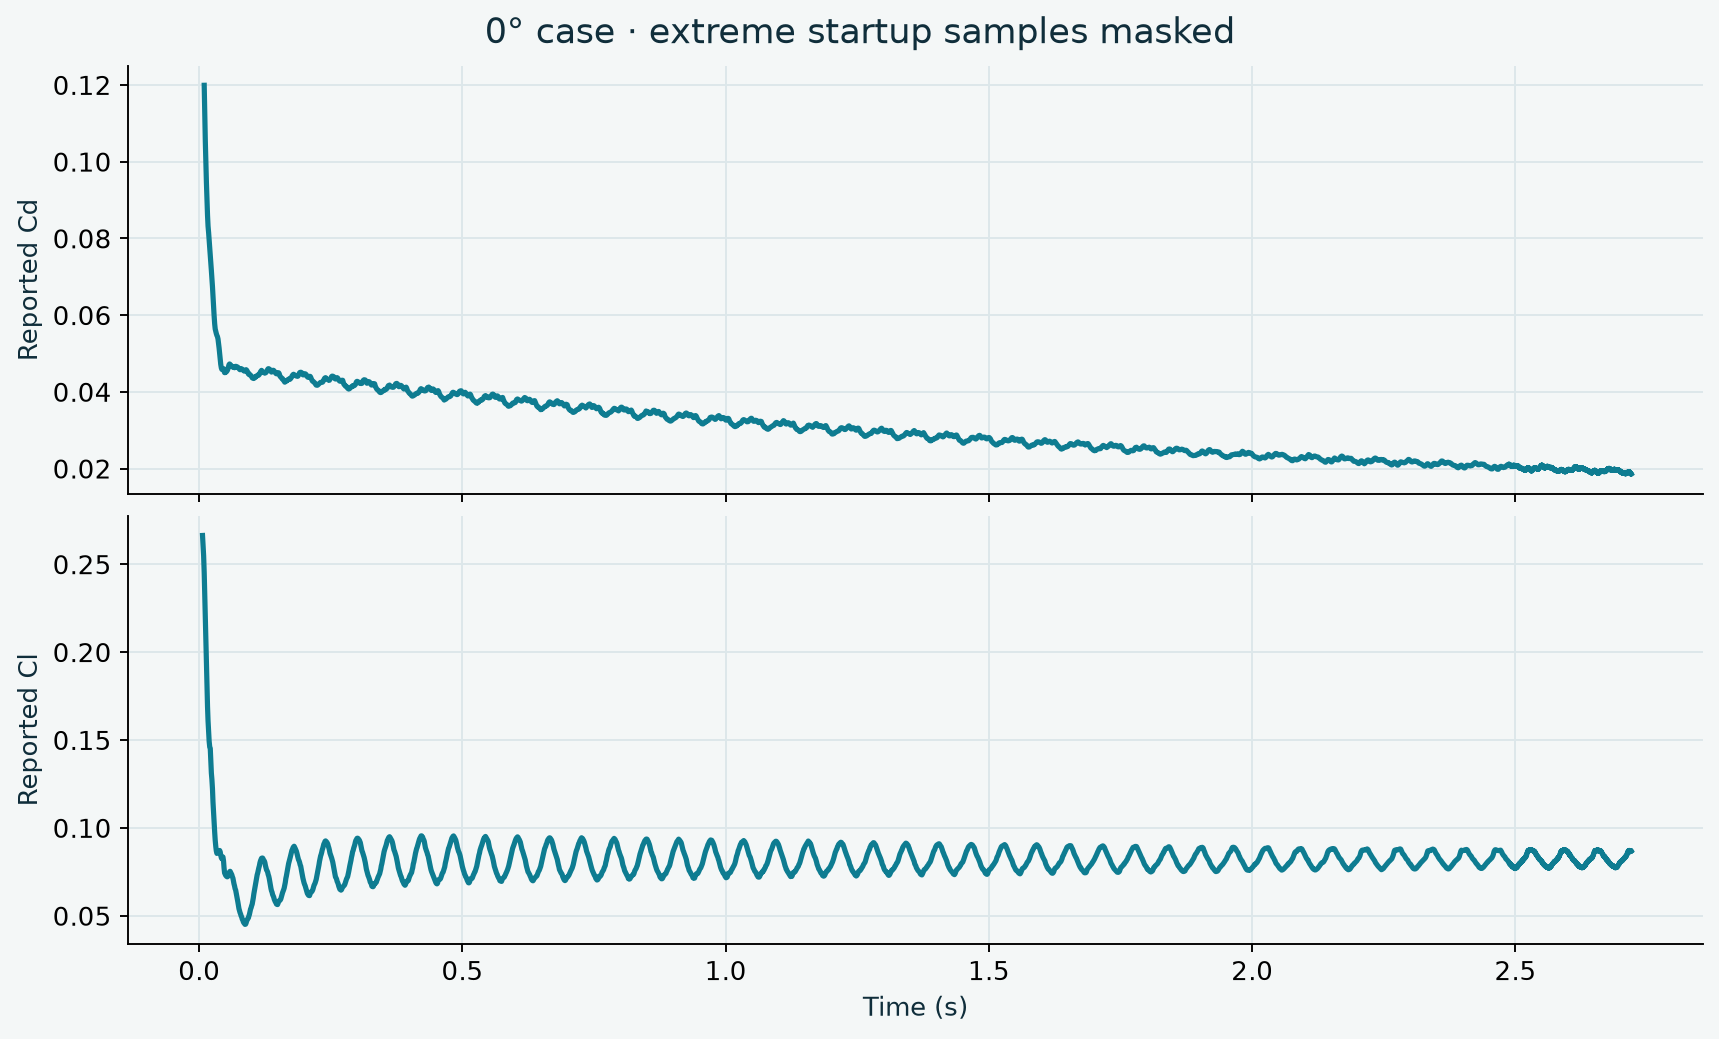
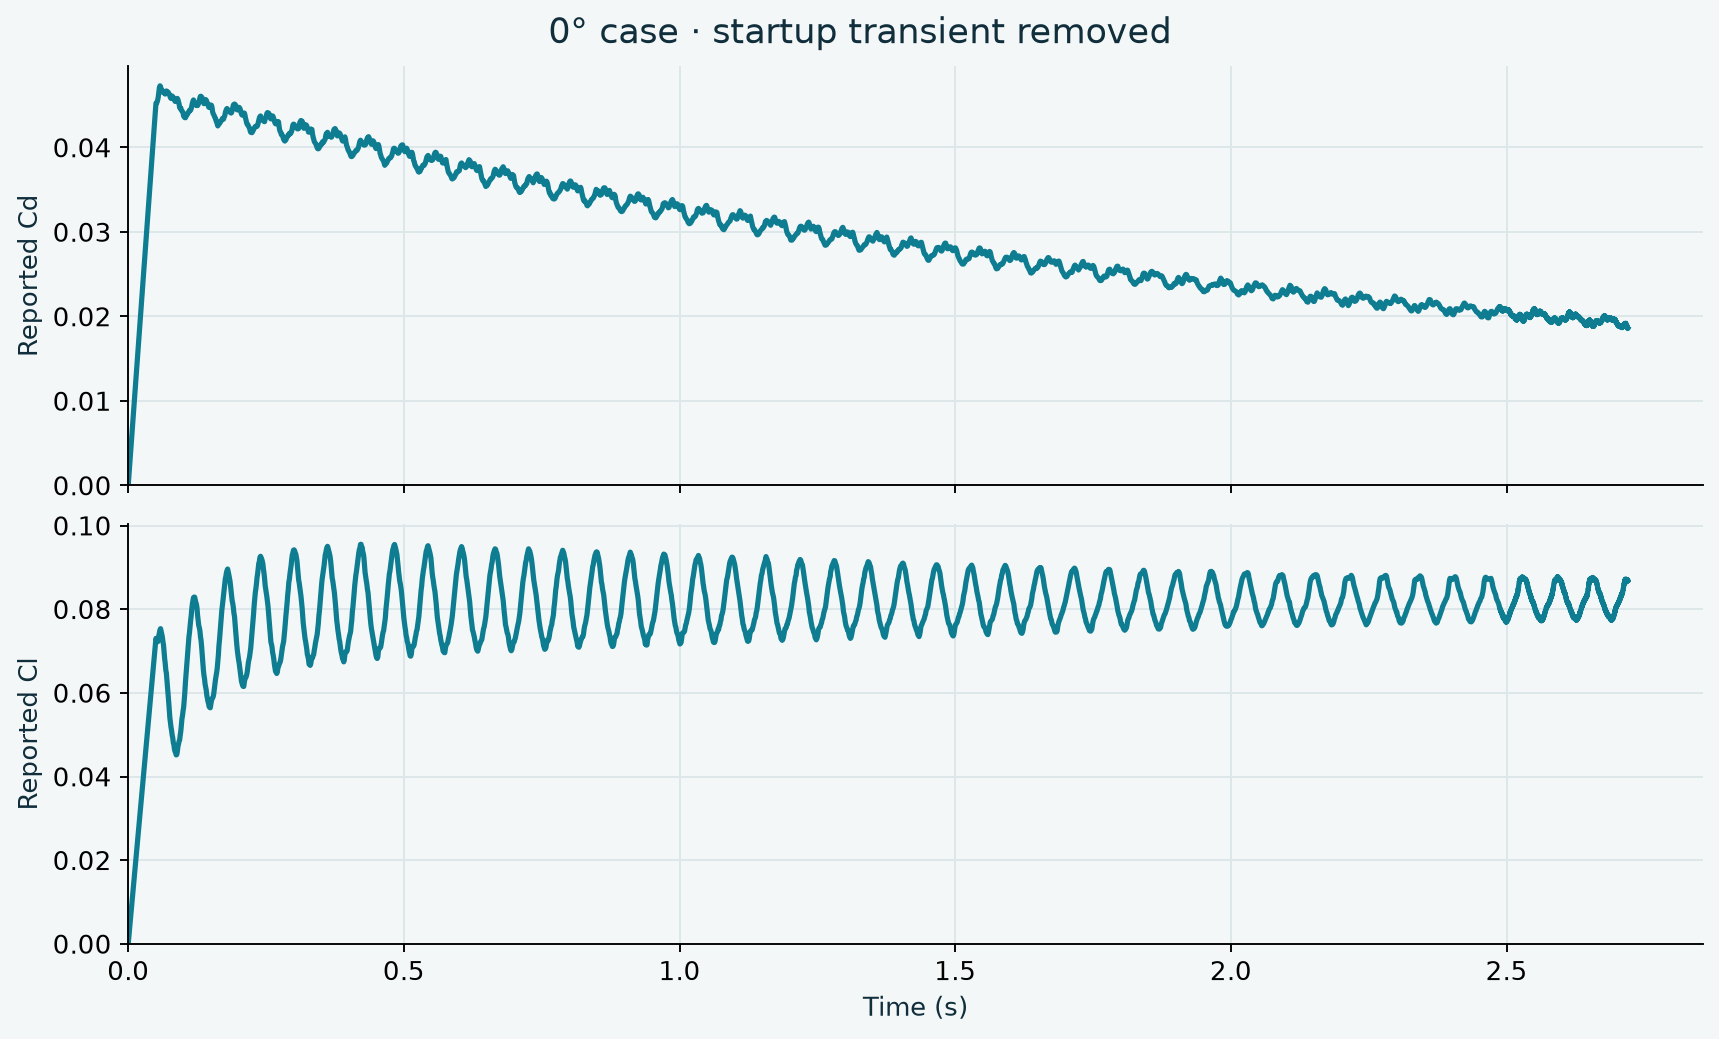
Refine frisbee project results

diff --git a/frisbee.html b/frisbee.html
@@ -12,8 +12,8 @@
 <body>
 <header class="site-header"><a class="brand" href="index.html" aria-label="Maxime Becuwe — home">MB<span>.</span></a><nav aria-label="Main navigation"><a href="index.html#projects">All projects</a><a href="#story">The story</a><a href="#setup">Simulation</a><a href="#performance">Results</a></nav></header>
 <main><section class="hero disc-hero"><div><p class="eyebrow">Disc golf · CFD · Personal project</p><h1>Why won’t my disc <em>fly straight?</em></h1><p class="lead">A round at Valbyparken, some very questionable throws, and a reason to open STAR-CCM+.</p><div class="chips"><span>STAR-CCM+</span><span>Free flight</span><span>Rotating disc</span></div></div><figure><img src="assets/frisbee/geometry2.png?v=zero-story" alt="The disc-golf driver used in the simulation." width="1920" height="1080" loading="lazy" /><figcaption>The disc-golf driver used in the simulation.</figcaption></figure></section>
-<section id="story" class="disc-results story-section"><div class="heading"><p class="eyebrow">How it started</p><h2>Seven throws. Then two.</h2></div><div class="result-copy"><p>I was at Valbyparken in Copenhagen with colleagues, playing disc golf. The idea is simple: get a disc into a metal basket with hanging chains in as few throws as possible.</p><p>To be honest, we were particularly bad at it. Seven throws? Usually more. Our discs veered sideways, tilted, fell short and occasionally seemed determined to come back like boomerangs.</p><p>Then three players arrived with bags that looked as though they contained fifty discs. Two throws, and they were done. Their discs seemed to travel fifty metres in a straight line, with none of the wobbling and sideways detours we were producing.</p></div><div class="disc-photo-grid"><figure><img src="assets/frisbee/valbyparken.jpg?v=zero-story" alt="Valbyparken, Copenhagen — the perennial garden, not the disc-golf fairway. Photo: Sten, CC BY-SA 3.0." width="1360" height="908" loading="lazy" /><figcaption>Valbyparken, Copenhagen — the perennial garden, not the disc-golf fairway. Photo: <a href="https://commons.wikimedia.org/wiki/File:Valbyparken-perennial-garden.jpg">Sten</a>, <a href="https://creativecommons.org/licenses/by-sa/3.0/">CC BY-SA 3.0</a>.</figcaption></figure><figure><img src="assets/frisbee/basket.jpg?v=zero-story" alt="A disc-golf target: chains catch the disc above the basket. Illustrative photo from Texas: Windsurf17, public domain." width="2048" height="1536" loading="lazy" /><figcaption>A disc-golf target: chains catch the disc above the basket. Illustrative photo from Texas: <a href="https://commons.wikimedia.org/wiki/File:Disc_golf_basket.jpg">Windsurf17</a>, public domain.</figcaption></figure></div><div class="result-copy"><h3>How could I throw like that?</h3><p>I had two options: spend twenty hours practising at Valbyparken, or ask my old friend STAR-CCM+ to help me understand what was happening. I chose the simulation first. Practice is still on the list.</p><p>This project explores how rotation, pressure and aerodynamic forces shape a disc’s flight. The first case is deliberately simple: a horizontal driver launched straight ahead.</p></div></section>
-<section class="disc-about"><div><p class="eyebrow">The equipment</p><h2>Why a bag full of discs?</h2><p>Putters, mid-range discs and drivers serve different shots. Their rim shapes and flight characteristics help explain why experienced players carry more than one. This study uses a driver geometry.</p></div><figure><img src="assets/frisbee/discs.jpg?v=zero-story" alt="A selection of disc-golf discs; not the exact simulated model. Photo: Adam Bartlett, CC BY 2.0." width="2655" height="1753" loading="lazy" /><figcaption>A selection of disc-golf discs; not the exact simulated model. Photo: <a href="https://commons.wikimedia.org/wiki/File:Disc_Golf_Discs_(3293584490).jpg">Adam Bartlett</a>, <a href="https://creativecommons.org/licenses/by/2.0/">CC BY 2.0</a>.</figcaption></figure></section><section id="setup" class="disc-setup"><div class="heading"><p class="eyebrow">01 — Simulation</p><h2>A horizontal launch in still air</h2></div><div class="metrics"><div><b>25 m/s</b><span>Initial forward speed</span></div><div><b>1,000 rpm</b><span>Initial spin</span></div><div><b>0°</b><span>Initial disc inclination</span></div><div><b>100 g</b><span>Disc mass</span></div></div><div class="result-copy"><p>The initial laboratory velocity is (25, 0, 0) m/s: there is no upward launch component. The disc moves freely through air at 20 °C under gravity and aerodynamic loading. A release height of 1 m is assumed when converting vertical displacement into height above ground.</p><p>A moving overset mesh follows the disc within the background domain. The red region below is the overset mesh. The base size is 10 mm, with local refinement down to 2 mm.</p></div><div class="disc-result-grid"><figure><img src="assets/frisbee/mesh-general.png?v=zero-story" alt="Background mesh and moving overset region in red." width="1920" height="1080" loading="lazy" /><figcaption>Background mesh and moving overset region in red.</figcaption></figure><figure><img src="assets/frisbee/mesh-general-closer.png?v=zero-story" alt="Closer view of the mesh around the disc." width="1920" height="1080" loading="lazy" /><figcaption>Closer view of the mesh around the disc.</figcaption></figure></div></section><section id="results" class="disc-results"><div class="heading"><p class="eyebrow">02 — Flow around the disc</p><h2>Rotation, velocity and pressure</h2></div><div class="result-copy"><p>Rotation adds to the forward surface velocity on one side and subtracts from it on the other. These surface snapshots show the resulting asymmetry in X velocity and total pressure.</p></div><div class="disc-result-grid"><figure><img src="assets/frisbee/velocity_x_lab_XY.png?v=zero-story" alt="X velocity in the laboratory frame." width="1920" height="1080" loading="lazy" /><figcaption>X velocity in the laboratory frame.</figcaption></figure><figure><img src="assets/frisbee/total_pressure_XY.png?v=zero-story" alt="Total pressure: about −13 Pa on the +Y side and 600 Pa on the −Y side." width="1920" height="1080" loading="lazy" /><figcaption>Total pressure: about −13 Pa on the +Y side and 600 Pa on the −Y side.</figcaption></figure></div><div class="result-copy"><p>Total pressure includes a kinetic contribution, so this contrast is not by itself a lateral suction force. The force on the disc comes from the complete static-pressure and wall-shear distribution.</p></div><div class="disc-result-grid"><figure><img src="assets/frisbee/pressure_XY.png?v=zero-story" alt="Static pressure on the upper surface." width="1920" height="1080" loading="lazy" /><figcaption>Static pressure on the upper surface.</figcaption></figure><figure><img src="assets/frisbee/pressure_negXY.png?v=zero-story" alt="Static pressure beneath the disc; the viewing direction is reversed." width="1920" height="1080" loading="lazy" /><figcaption>Static pressure beneath the disc; the viewing direction is reversed.</figcaption></figure></div><div class="result-copy"><p>The upper surface shows extensive suction; the underside contains both positive and negative pressure regions. Together, these loads contribute to lift, which helps the disc stay airborne while drag slows it down.</p></div></section>
-<section id="performance" class="disc-results"><div class="heading"><p class="eyebrow">03 — Flight performance</p><h2>Over 52 metres of simulated flight</h2></div><div class="metrics"><div><b>52.42 m</b><span>Forward distance recorded</span></div><div><b>2.72 s</b><span>Simulation time</span></div><div><b>15.21 m/s</b><span>Final forward speed</span></div><div><b>6.09 cm</b><span>Lateral drift towards −Y</span></div></div><div class="result-copy"><p>The disc rises slightly, then descends as it travels forward. Starting from an assumed height of 1 m, it reaches 1.047 m and finishes the available record about 5 cm above ground. It has travelled 52.42 m, but the record does not yet include ground contact: this is recorded distance, not a measured landing range.</p></div><figure><img src="assets/frisbee/zero_trajectory.png?v=zero-story" alt="Updated 0° results: height above, lateral displacement below. The different axis scales make the small lateral drift visible." width="1719" height="1209" loading="lazy" /><figcaption>Updated 0° results: height above, lateral displacement below. The different axis scales make the small lateral drift visible.</figcaption></figure><div class="result-copy"><p>The flight stays close to its initial direction, with only about 6 cm of lateral displacement. Meanwhile, the forward speed decreases from 25 to 15.21 m/s — roughly a 39% reduction. This idealized release is much more controlled than my throws in the park.</p></div><figure><img src="assets/frisbee/zero_velocity.png?v=zero-story" alt="Forward velocity throughout the updated simulation, without smoothing." width="1719" height="699" loading="lazy" /><figcaption>Forward velocity throughout the updated simulation, without smoothing.</figcaption></figure><div class="result-copy"><h3>Lift and drag during flight</h3><p>The reported drag coefficient decreases as the disc slows. The lift coefficient oscillates around a more stable level. Over the final 0.20 s, their time-averaged values are <strong>Cd ≈ 0.0197</strong> and <strong>Cl ≈ 0.0826</strong>.</p></div><figure><img src="assets/frisbee/zero_coefficients.png?v=zero-story" alt="Reported drag and lift coefficients. Extreme startup samples are masked for readability; recurring oscillations are retained." width="1719" height="1039" loading="lazy" /><figcaption>Reported drag and lift coefficients. Extreme startup samples are masked for readability; recurring oscillations are retained.</figcaption></figure><div class="result-copy"><p>Small periodic variations remain in the signals. Rotation-related loading and moving-mesh interpolation are possible contributors; these curves alone do not establish gyroscopic precession.</p></div><details class="comparison-detail"><summary>Force histories and calculation details</summary><figure><img src="assets/frisbee/zero_forces.png?v=zero-story" alt="X and Z force reports, using the original export sign convention." width="1719" height="1039" loading="lazy" /><figcaption>X and Z force reports, using the original export sign convention.</figcaption></figure><div class="result-copy"><p>C = F / (½ρUref²Aref), with ρ = 1.18415 kg/m³, Uref = 25 m/s and Aref = 0.0314 m². The normalization is 11.6195 N; reference pressure is 0 Pa gauge. The final-window mean reported X and Z forces are 0.229 N and 0.959 N, respectively. The weight is 0.981 N.</p><p>The report axes and signs are retained as exported. Fixed-reference coefficients are not instantaneous-speed aerodynamic polars. For display only, values above three times the post-0.05 s 95th percentile of absolute magnitude are masked: 9 samples for drag/X force and 5 for lift/Z force. Raw data are unchanged.</p><p><a class="reference" href="assets/frisbee/frisbee_zero.zip" download>Download the 0° notebook, data and plots ↗</a></p></div></details></section>
+<section id="story" class="disc-results story-section"><div class="heading"><p class="eyebrow">How it started</p><h2>Seven throws. Then two.</h2></div><div class="result-copy"><p>I was at Valbyparken in Copenhagen with colleagues, playing disc golf. The idea is simple: get a disc into a metal basket with hanging chains in as few throws as possible.</p><p>To be honest, we were particularly bad at it. Seven throws? Usually more. Our discs started veering sideways almost as soon as they left our hands. They tilted, fell short and occasionally seemed determined to come back like boomerangs. Understanding that early sideways motion became one of the questions behind this simulation.</p><p>Then three players arrived with bags that looked as though they contained fifty discs. Two throws, and they were done. Their discs seemed to travel fifty metres in a straight line, with none of the wobbling and sideways detours we were producing.</p></div><div class="disc-photo-grid"><figure><img src="assets/frisbee/disc-course.jpg" alt="A disc-golf basket on a grassy fairway in Tali, Helsinki." width="3648" height="2736" loading="lazy" /><figcaption>A grassy disc-golf fairway and its basket. Illustrative photo from Tali, Helsinki: <a href="https://commons.wikimedia.org/wiki/File:Disc_frisbee_golf_frolf_basket_route_in_Tali_Helsinki_Finland.jpg">Pöllö</a>, <a href="https://creativecommons.org/licenses/by/3.0/">CC BY 3.0</a>.</figcaption></figure><figure><img src="assets/frisbee/basket.jpg?v=zero-story" alt="A disc-golf target: chains catch the disc above the basket. Illustrative photo from Texas: Windsurf17, public domain." width="2048" height="1536" loading="lazy" /><figcaption>A disc-golf target: chains catch the disc above the basket. Illustrative photo from Texas: <a href="https://commons.wikimedia.org/wiki/File:Disc_golf_basket.jpg">Windsurf17</a>, public domain.</figcaption></figure></div><div class="result-copy"><h3>How could I throw like that?</h3><p>I had two options: spend twenty hours practising at Valbyparken, or ask my old friend STAR-CCM+ to help me understand what was happening. I chose the simulation first. Practice is still on the list.</p><p>This project explores how rotation, pressure and aerodynamic forces shape a disc’s flight. The first case is deliberately simple: a horizontal driver launched straight ahead.</p></div></section>
+<section class="disc-about"><div><p class="eyebrow">The equipment</p><h2>Why a bag full of discs?</h2><p>Putters, mid-range discs and drivers serve different shots. Their rim shapes and flight characteristics help explain why experienced players carry more than one. This study uses a driver geometry.</p><p>A driver is designed for long-distance shots: its low profile and wide, bevelled rim suit fast flight, unlike the rounder rim of a putter intended for short, controlled shots. The aim is to cover more ground from the tee, provided the disc has enough launch speed and a controlled release. A driver is not automatically a straight-flying disc: its shape and release orientation also influence how it turns during flight.</p></div><figure><img src="assets/frisbee/discs.jpg?v=zero-story" alt="A selection of disc-golf discs; not the exact simulated model. Photo: Adam Bartlett, CC BY 2.0." width="2655" height="1753" loading="lazy" /><figcaption>A selection of disc-golf discs; not the exact simulated model. Photo: <a href="https://commons.wikimedia.org/wiki/File:Disc_Golf_Discs_(3293584490).jpg">Adam Bartlett</a>, <a href="https://creativecommons.org/licenses/by/2.0/">CC BY 2.0</a>.</figcaption></figure></section><section id="setup" class="disc-setup"><div class="heading"><p class="eyebrow">01 — Simulation</p><h2>A horizontal launch in still air</h2></div><div class="metrics"><div><b>25 m/s</b><span>Initial forward speed</span></div><div><b>1,000 rpm</b><span>Initial spin</span></div><div><b>0°</b><span>Initial disc inclination</span></div><div><b>100 g</b><span>Disc mass</span></div></div><div class="result-copy"><p>The initial laboratory velocity is (25, 0, 0) m/s: there is no upward launch component. The disc moves freely through air at 20 °C under gravity and aerodynamic loading. A release height of 1 m is assumed when converting vertical displacement into height above ground.</p><p>A moving overset mesh follows the disc within the background domain. The red region below is the overset mesh. The base size is 10 mm, with local refinement down to 2 mm.</p></div><div class="disc-result-grid"><figure><img src="assets/frisbee/mesh-general.png?v=zero-story" alt="Background mesh and moving overset region in red." width="1920" height="1080" loading="lazy" /><figcaption>Background mesh and moving overset region in red.</figcaption></figure><figure><img src="assets/frisbee/mesh-general-closer.png?v=zero-story" alt="Closer view of the mesh around the disc." width="1920" height="1080" loading="lazy" /><figcaption>Closer view of the mesh around the disc.</figcaption></figure></div></section><section id="results" class="disc-results"><div class="heading"><p class="eyebrow">02 — Flow around the disc</p><h2>Rotation, velocity and pressure</h2></div><div class="result-copy"><p>Rotation adds to the forward surface velocity on one side and subtracts from it on the other. These surface snapshots show the resulting asymmetry in X velocity and total pressure.</p></div><div class="disc-result-grid"><figure><img src="assets/frisbee/velocity_x_lab_XY.png?v=zero-story" alt="X velocity in the laboratory frame." width="1920" height="1080" loading="lazy" /><figcaption>X velocity in the laboratory frame.</figcaption></figure><figure><img src="assets/frisbee/total_pressure_XY.png?v=zero-story" alt="Total pressure: about −13 Pa on the +Y side and 600 Pa on the −Y side." width="1920" height="1080" loading="lazy" /><figcaption>Total pressure: about −13 Pa on the +Y side and 600 Pa on the −Y side.</figcaption></figure></div><div class="result-copy"><p>Total pressure includes a kinetic contribution, so this contrast is not by itself a lateral suction force. The force on the disc comes from the complete static-pressure and wall-shear distribution.</p><p>Uneven aerodynamic loading can generate sideways forces and moments that change the disc’s orientation. This provides a possible explanation for the sideways turns we saw at the park, including a disc curving left when its lift tilts in that direction. The total-pressure snapshot alone cannot establish that mechanism or its direction. The Y-translation plot below does show a small lateral drift in this run, but towards −Y rather than +Y (left in the convention used here).</p></div><div class="disc-result-grid"><figure><img src="assets/frisbee/pressure_XY.png?v=zero-story" alt="Static pressure on the upper surface." width="1920" height="1080" loading="lazy" /><figcaption>Static pressure on the upper surface.</figcaption></figure><figure><img src="assets/frisbee/pressure_negXY.png?v=zero-story" alt="Static pressure beneath the disc; the viewing direction is reversed." width="1920" height="1080" loading="lazy" /><figcaption>Static pressure beneath the disc; the viewing direction is reversed.</figcaption></figure></div><div class="result-copy"><p>The upper surface shows extensive suction; the underside contains both positive and negative pressure regions. Together, these loads contribute to lift, which helps the disc stay airborne while drag slows it down.</p></div></section>
+<section id="performance" class="disc-results"><div class="heading"><p class="eyebrow">03 — Flight performance</p><h2>Over 52 metres of simulated flight</h2></div><div class="metrics"><div><b>52.42 m</b><span>Forward distance recorded</span></div><div><b>2.72 s</b><span>Simulation time</span></div><div><b>15.21 m/s</b><span>Final forward speed</span></div><div><b>6.09 cm</b><span>Lateral drift towards −Y</span></div></div><div class="result-copy"><p>The disc rises slightly, then descends as it travels forward. Starting from an assumed height of 1 m, it reaches 1.047 m and finishes the available record about 5 cm above ground. It has travelled 52.42 m, but the record does not yet include ground contact: this is recorded distance, not a measured landing range.</p></div><figure><img src="assets/frisbee/zero_trajectory.png?v=zero-story" alt="Updated 0° results: height above, lateral displacement below. The different axis scales make the small lateral drift visible." width="1719" height="1209" loading="lazy" /><figcaption>Updated 0° results: height above, lateral displacement below. The different axis scales make the small lateral drift visible.</figcaption></figure><div class="result-copy"><p>The Y-translation curve confirms a small departure from a perfectly straight trajectory: about 6 cm towards −Y. It records the sideways motion, but does not on its own identify which aerodynamic mechanism causes it. Meanwhile, the forward speed decreases from 25 to 15.21 m/s — roughly a 39% reduction. This idealized release is much more controlled than my throws in the park.</p></div><figure><img src="assets/frisbee/zero_velocity.png?v=zero-story" alt="Forward velocity throughout the updated simulation, without smoothing." width="1719" height="699" loading="lazy" /><figcaption>Forward velocity throughout the updated simulation, without smoothing.</figcaption></figure><div class="result-copy"><h3>Lift and drag during flight</h3><p>The coefficients express aerodynamic forces relative to a common reference load:</p><p class="coefficient-formula"><strong>C<sub>D</sub> = D / (½ρV<sub>ref</sub>²S) &nbsp; · &nbsp; C<sub>L</sub> = L / (½ρV<sub>ref</sub>²S)</strong></p><p>Here, D and L are the drag and lift force components in newtons, following the configured STAR-CCM+ report directions. The reference area is <strong>S = 0.0314 m²</strong>, representing the disc’s planform area; the air density is <strong>ρ = 1.18415 kg/m³</strong>; and the reference velocity is <strong>V<sub>ref</sub> = 25 m/s</strong>, the initial launch speed. Together, they give a reference load of <strong>½ρV<sub>ref</sub>²S = 11.6195 N</strong>. The pressure reference is 0 Pa gauge; it is not an additional term in these coefficient formulas.</p><p>The reference velocity stays fixed at 25 m/s throughout the run, even as the disc slows down. These reported coefficients therefore differ from coefficients normalized using the instantaneous flight speed.</p><p>The reported drag coefficient decreases as the disc slows. The lift coefficient oscillates around a more stable level. Over the final 0.20 s, their time-averaged values are <strong>Cd ≈ 0.0197</strong> and <strong>Cl ≈ 0.0826</strong>.</p></div><figure><img src="assets/frisbee/zero_coefficients.png?v=zero-origin" alt="Reported drag and lift coefficients beginning at a display origin of zero. The startup transient before 0.05 seconds is omitted; recurring oscillations are retained." width="1719" height="1039" loading="lazy" /><figcaption>Cd and Cl begin at a display origin of zero. Samples before 0.05 s are omitted to remove the startup transient; the origin is not a CFD sample.</figcaption></figure><div class="result-copy"><p>Small periodic variations remain in the signals. Rotation-related loading and moving-mesh interpolation are possible contributors; these curves alone do not establish gyroscopic precession.</p></div></section>
 <section class="disc-next"><p class="eyebrow">Back to the park</p><h2>Understanding the flight is a start.</h2><p>This first simulation follows a clean horizontal release. It shows how a spinning driver can travel more than fifty metres while losing speed and height. Understanding less controlled throws will require looking at release orientation and aerodynamic moments. Turning that understanding into a good throw still takes practice.</p></section></main><footer><span>© <span id="year"></span> Maxime Becuwe</span><a href="index.html#projects">Back to projects ↗</a></footer><script>document.getElementById('year').textContent=new Date().getFullYear();</script>
 </body></html>
